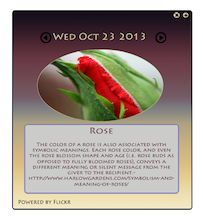
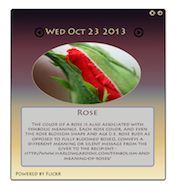
Updated HTML and CSS placement

diff --git a/css/main.css b/css/main.css
@@ -7,8 +7,6 @@ body{
     background-color: #FFF;
     border-width: 2em;
     border-radius: 1.25%; /*10px*/
-    height: 100%;
-    width: 100%;
    
 }
 
@@ -32,7 +30,7 @@ body{
 h1{
 	color: #0D1330;
     text-shadow: 0.05em 0.05em 0.05em #420722;
-    font-size: 3.375em; /* 16px/54px */
+    font-size: 3em; /* 16px/54px */
     text-align: center;
     line-height: 100%;
     margin: 0;
@@ -41,7 +39,7 @@ h1{
 
 h2{
 	color: #420722;
-	font-size: 3em;
+	font-size: 2em;
 	text-align:center;
 	line-height: 100%;
 	margin: 10;
@@ -49,26 +47,37 @@ h2{
 
 }
 
-.description{
+#description{
 	border: 1px solid #FFF;
 	border-collapse:collapse;
-	margin-left: 200px;
-	margin-right: 200px;
-	padding: 0.3em;
+	border-left-width:1px;
+	margin-left:225px;
+	width: 35%;
+	padding: 1em;
 	float: left;
+	display:inline;
+	-moz-column-count: 1; /* Firefox */
+    -webkit-column-count: 1; /* Safari and Chrome */
 }
 
-.screenshots{
+#screenshots{
+	margin-right: 150px;
 	float: right;
-	display: inline;
+	display: inline;	
+	
 }
 
-
+#flashcontent{
+	float: right;
+	display:inline;
+}
 
 footer {
         color: #FFF;
         text-shadow: 0.25em 0.25em 0.25em #424331;
         text-align: center;
         background-color: #000;
-        clear: both;
+        margin-top: 10px;
+        margin-left: 225px;
+        clear:both;
 }

diff --git a/index.html b/index.html
@@ -5,6 +5,7 @@
 	<meta charset="utf-8"/>
 		
 	<title>Flower Euphoria</title>
+	<meta name="viewport" content="width-device-width, initial-scale=1.0, maximum-scale=1.0">
 
 	<!-- SWFObject embed by Geoff Stearns geoff@deconcept.com http://blog.deconcept.com/swfobject/ -->
 	<script type="text/javascript" src="swfobject.js"></script>
@@ -76,8 +77,8 @@
 						<th>Screenshots</th>
 					</tr>
 					<tr>
-						<td>Logon Screen <img title="logon screen" src="images/logon_screen.png" alt=" "></td>
-						<td>Result Window <img title="Result window" src="images/result_window.png" alt=" "></td>
+						<td><img title="Logon Screen" src="images/logon_screen.png" alt=" "></td>
+						<td><img title="Result Window" src="images/result_window.png" alt=" "></td>
 					</tr>
 				</tbody>
 			</table>					
@@ -131,7 +132,7 @@
 
 <!-- END EMBED CODE -->			
 			
-<!-- footer information -->	
+<!-- Footer information -->	
 		<footer>Copyright 2013 | Jennifer Brown | Deployment of Flash Projects | All Rights Reserved | Powered by Flickr API</footer>
 	
 </body>
